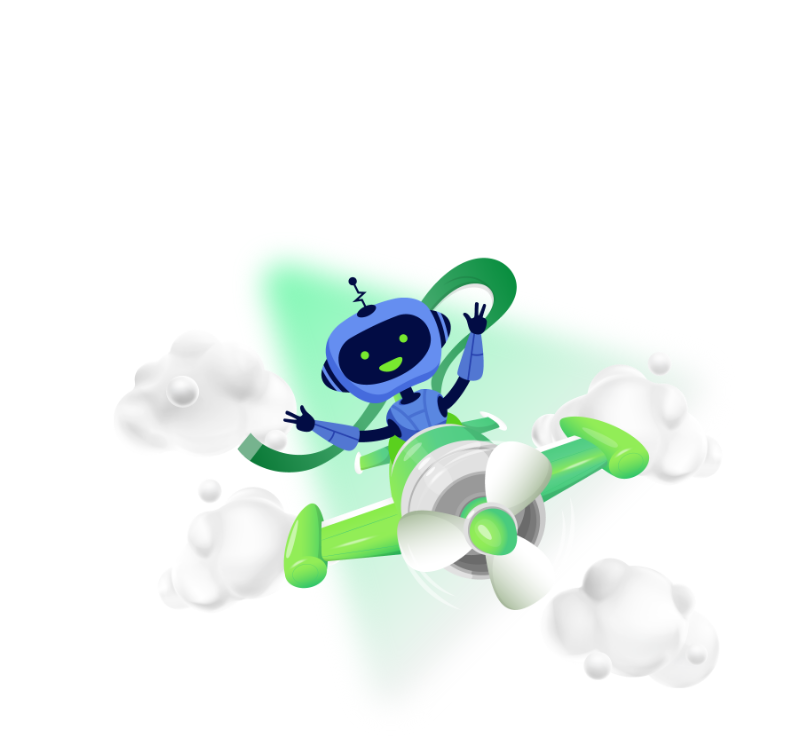
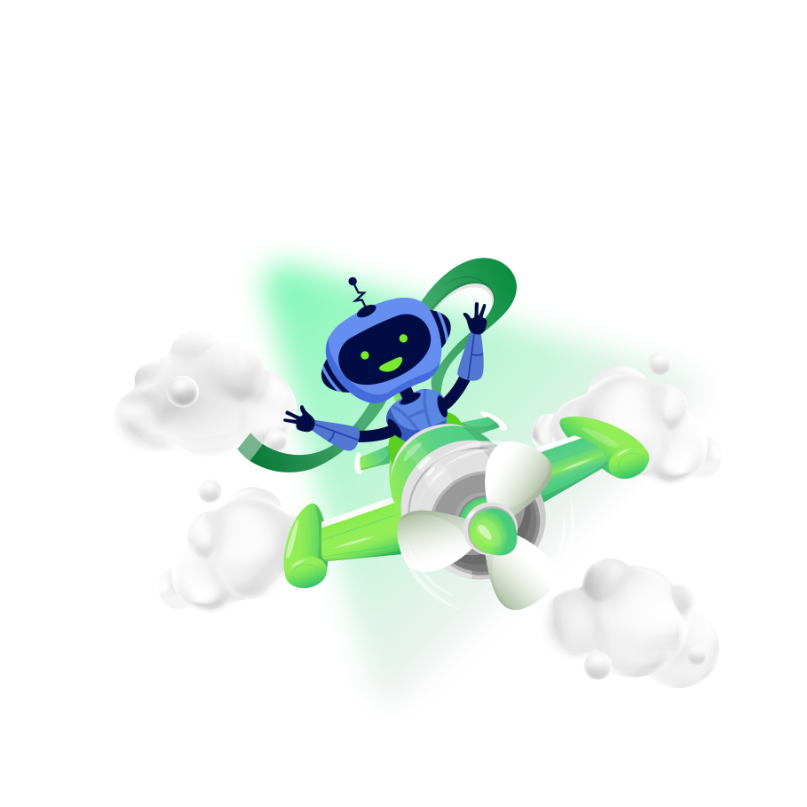
finaly

diff --git a/src/app/routes/Home/components/hero/hero.component.scss b/src/app/routes/Home/components/hero/hero.component.scss
@@ -128,21 +128,24 @@ transform: translateX(8px);
 }
 }
 // <!-- ========================[رسپانسیو]================== -->
+.responsive{
+  background: #F3F3F3;
+}
 .hero2{
   position: relative;
   height: 559px;
 }
 .hero-img2 {
-  transform: translate(191px, -174px);
-  min-width: 750px;
-  max-width: 809px;
+  transform: translate(241px, -174px);
+  max-width: 784px;
 }
 .box-1{
   position: relative;
   background-color: white;
   border-radius: 10px;
   width: 111px;
-  transform: translate(-115px, -428px);}
+  transform: translate(-240px, -674px);
+}
 .emugi{
   width: 35px;
 }
@@ -197,7 +200,7 @@ position: relative;
   background-color: white;
   border-radius: 10px;
   width: 130px;
-  transform: translate(-115px, -535px);
+  transform: translate(-86px, -434px);
 }
 .emugi-box2{
   background-color: #0075F8;
@@ -231,6 +234,8 @@ position: relative;
 .hero-h1{
   font-size: 35px;
   font-style: oblique;
+  position: relative;
+  z-index: 2;
 }
 .hero-h2{
   font-weight: 600;
@@ -240,6 +245,12 @@ position: relative;
 }
 .hero-p{
   font-size: 15px;
+  position: relative;
+  z-index: 10;
+}
+.row-btn{
+  position: relative;
+  z-index: 5;
 }
 .box-matn{
   margin-right: 22px;
@@ -255,12 +266,12 @@ position: relative;
   margin-left: 15px;
 }
 .btn2{
-  color: white;
+  color: black;
   position: relative;
   border-radius: 35px;
   padding: 8px 18px 6px 18px;
-  background-color: #3246d3;
-  font-weight: 700;
+  background-color: white;
+  font-weight: 500;
 }
 .icon-btn{
   font-weight: 900;
@@ -269,9 +280,9 @@ position: relative;
   right: 7px;
 }
 .circle{
+  position: relative;
   background: rgb(50,70,211);
-  background: radial-gradient(circle, rgba(50, 70, 211, 0.33) 0%, rgb(193, 193, 255) 12%, rgb(255, 255, 255) 56%);  width: 100%;
-  z-index: -10;
+  background: radial-gradient(circle, rgba(50, 70, 211, 0.33) 0%, rgb(193, 193, 255) 12%, #F3F3F3 56%);  width: 100%;
   transform: translate(-219px, -196px);
   aspect-ratio: 1/1;
 }
@@ -281,14 +292,14 @@ position: relative;
     
   }
   .box-bg{
-    background-color: rgba(0, 0, 0, 0.661);
+    background-color: rgba(255, 255, 255, 0.32);
     position: relative;
     border-radius: 10px;
-    height: 85px;
+    height: 102px;
     margin-right: 55px;
     margin-left: 30px;
     max-width: 360px;
-    transform: translate(13px, -127px);
+    transform: translate(13px, -135px);
     min-width: 262px;
     }
 .profit{
@@ -321,7 +332,7 @@ position: relative;
     position: relative;
     background-color: white;
     z-index: 100;
-    border: 1px solid black;
+    // border: 1px solid #F3F4F6;
     border-radius: 10px;
     margin-right: 55px;
     margin-left: 55px;
@@ -350,7 +361,7 @@ position: relative;
       box-sizing: border-box;
       background: #fff;
       &.active{
-      animation: display 0.7s ease-in forwards;
+      animation: display 0.8s ease-in forwards;
 
         left: 0;
         &+.carousel-item{
@@ -378,6 +389,15 @@ position: relative;
   @keyframes display {
     0% {
       opacity: 0;
+    }
+    25% {
+      opacity: 0.25;
+    }
+    50% {
+      opacity: 0.5;
+    }
+    75%{
+      opacity: 0.75;
     }
     100% {
       opacity: 1;

diff --git a/src/app/routes/Home/components/hero/hero.component.html b/src/app/routes/Home/components/hero/hero.component.html
@@ -54,7 +54,7 @@
   </div>
 </div>
 <!-- ========================[رسپانسیو]================== -->
-<div *ngIf="device == 'sm'">
+<div class="responsive" *ngIf="device == 'sm'">
   <!-- ==================[بنر هیرو]================ -->
   <div class="hero2">
     <img class="hero-img2" src="assets/img/Hero-mobile.png" alt="h">
@@ -95,13 +95,13 @@
         <p class="hero-p">این ربات دستیار تریدرهاست؛ با قابلیت ترید خودکار که بر اساس الگوریتم هوش مصنوعی و ژنتیک
             کار میکند این اکسپرت امکان مدیریت سرمایه،پارامتر های ورودی زیاد و نظارت انسانی دارد
         </p>
-        <div class="mt-7">
+        <div class="row-btn mt-7">
             <button class="btn1"> فروشگاه  <i class="fa-solid fa-arrow-left icon-btn"></i></button>
             <button class="btn2"> رضایت مشتری</button>    
         </div>
+        <div class="circle"> 
+        </div>    
     </div>
-    <div class="circle"> 
-    </div>    
   </div>
   <!-- ==================[کاروسل هیرو]================ -->
   <div class="carousel-box">

diff --git a/src/app/routes/Shop/components/question-shop/question-shop.component.ts b/src/app/routes/Shop/components/question-shop/question-shop.component.ts
@@ -1,4 +1,8 @@
 import { Component } from '@angular/core';
+import { config } from 'src/app/shared/acordian/types';
+import { FAQ } from 'src/app/routes/Home/components/questions/interfaces/faq-interfce';
+import { FaqService } from 'src/app/routes/Home/components/questions/service/faq.service';
+import {lastValueFrom} from 'rxjs';
 
 @Component({
   selector: 'app-question-shop',
@@ -6,5 +10,13 @@ import { Component } from '@angular/core';
   styleUrls: ['./question-shop.component.scss']
 })
 export class QuestionShopComponent {
+  questionFaq : FAQ[];
 
+  async ngOnInit(){
+   const res = this.faq.get('FAQ/GetByTableTypeAndRowID/1/6');
+    this.questionFaq = (await lastValueFrom(res)).data!;
+  }
+  constructor(private faq : FaqService){
+  }
+  options: config = { multi: false };
 }

diff --git a/src/app/routes/Shop/components/question-shop/question-shop.component.html b/src/app/routes/Shop/components/question-shop/question-shop.component.html
@@ -1,8 +1,13 @@
-<span class="divid-h"> <span class="l">_</span>سوالات پرتکرار شما </span>
-<br />
-<h6 class="bot-h mb-3">
-  در ادامه تعدادی از پرتکرارترین سوالات را بررسی میکنیم
-</h6>
+<div class="row">
+  <span class="divid-h"> <span class="l">_</span>سوالات پرتکرار شما </span>
+  <h6 class="faq-h mb-4">
+    در ادامه تعدادی از پرتکرارترین سوالات را بررسی میکنیم
+  </h6>
+</div>
+<app-acordian
+[options]="options" 
+[faq]="questionFaq"
+></app-acordian>
 <!-- <div class="mt-11">
   <app-comments></app-comments>
 </div> -->

diff --git a/src/app/routes/Home/components/landing-page/landing-page.component.html b/src/app/routes/Home/components/landing-page/landing-page.component.html
@@ -127,11 +127,11 @@
 <!-- <app-landing-article /> -->
 <!-- <app-sell-info></app-sell-info> -->
 <app-hero></app-hero>
-<!-- <app-tags /> -->
-<!-- <app-service-baner></app-service-baner> -->
-<!-- <app-instagram-baner></app-instagram-baner>
-<app-bot-showcase></app-bot-showcase> -->
-<!-- <app-questions></app-questions> -->
+<app-tags />
+<app-service-baner></app-service-baner>
+<app-instagram-baner></app-instagram-baner>
+<app-bot-showcase></app-bot-showcase>
+<app-questions></app-questions>
 
 <!-- Cards -->
 

diff --git a/src/app/app.routing.ts b/src/app/app.routing.ts
@@ -10,12 +10,12 @@ const routes: Routes = [
     loadChildren: () =>
       import('./routes/Home/modules/home.module').then((m) => m.HomeModule),
   },
-  // {
-  //   path: '',
-  //   title: 'Shop',
-  //   loadChildren: () =>
-  //     import('./routes/Shop/modules/shop.module').then((m) => m.ShopModule),
-  // },
+  {
+    path: 'shop',
+    title: 'Shop',
+    loadChildren: () =>
+      import('./routes/Shop/modules/shop.module').then((m) => m.ShopModule),
+  },
 
   {
     path: 'calendar',

diff --git a/src/app/app.module.ts b/src/app/app.module.ts
@@ -1,6 +1,5 @@
 import { CUSTOM_ELEMENTS_SCHEMA, NgModule } from '@angular/core';
 import { BrowserModule } from '@angular/platform-browser';
-
 import { AppRoutingModule } from './app.routing';
 import { AppComponent } from './app.component';
 import { HeaderLayoutComponent } from './components/header-layout/header-layout.component';

diff --git a/src/app/routes/Shop/components/question-shop/question-shop.component.scss b/src/app/routes/Shop/components/question-shop/question-shop.component.scss
@@ -1,3 +1,6 @@
+.row{
+  margin-right: 135px;
+}
 .divid-h{
     font-weight: bold;
     font-size: 15px;
@@ -7,7 +10,8 @@
     font-size: 50px;
     font-weight: 900;
   }
-  .bot-h{
+  .faq-h{
+    margin-top: -19px;
     color: black;
         font-size: 25px;
         font-weight: 700;

diff --git a/src/app/routes/Home/components/service-baner/service-baner.component.scss b/src/app/routes/Home/components/service-baner/service-baner.component.scss
@@ -32,6 +32,7 @@ margin-left: 210px;
 }
 .candel {
     position: absolute;
+    z-index: -7;
     height: 250px;
     width: 1400px;
 }
